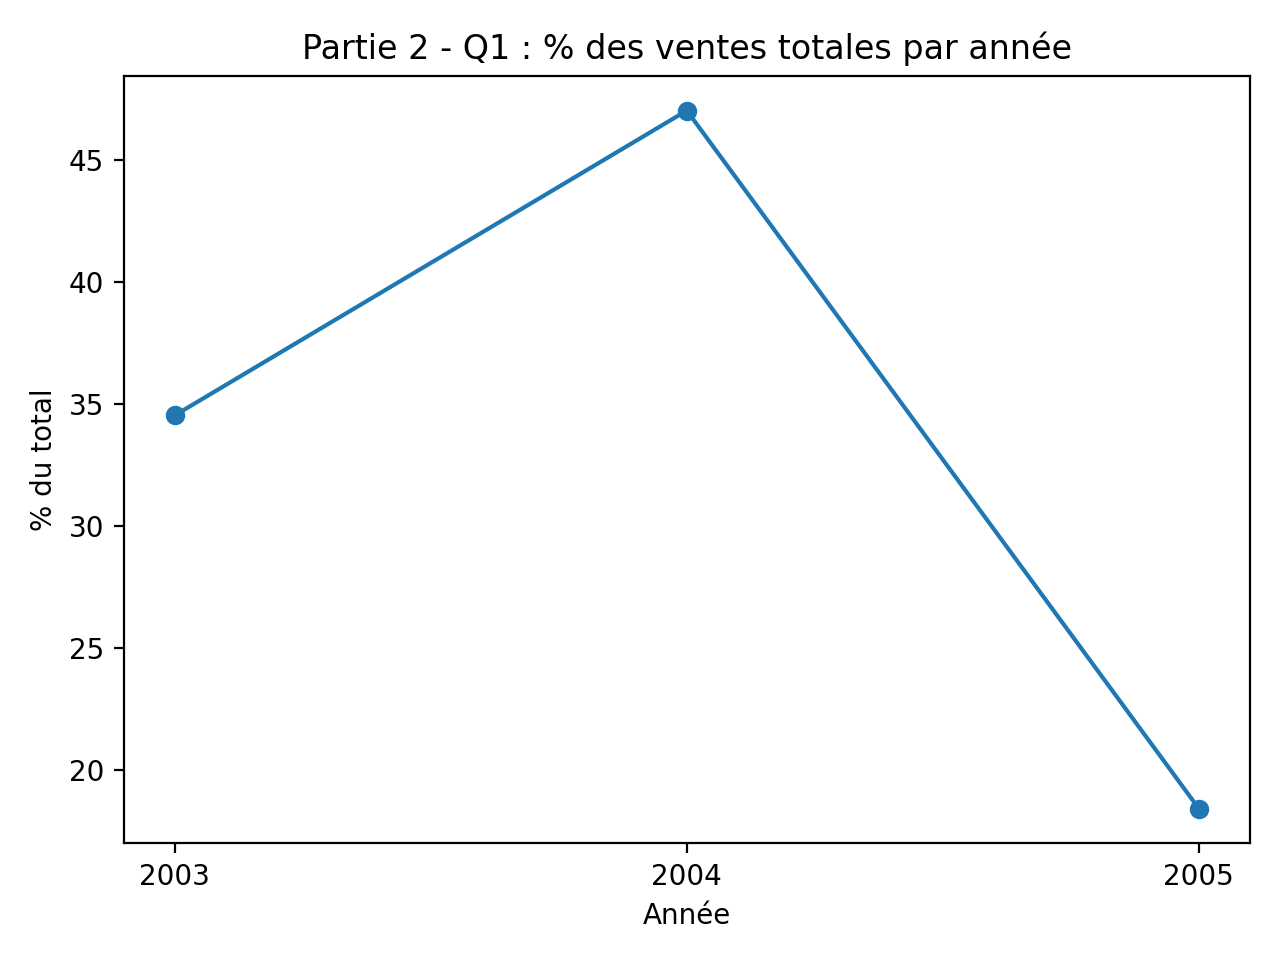
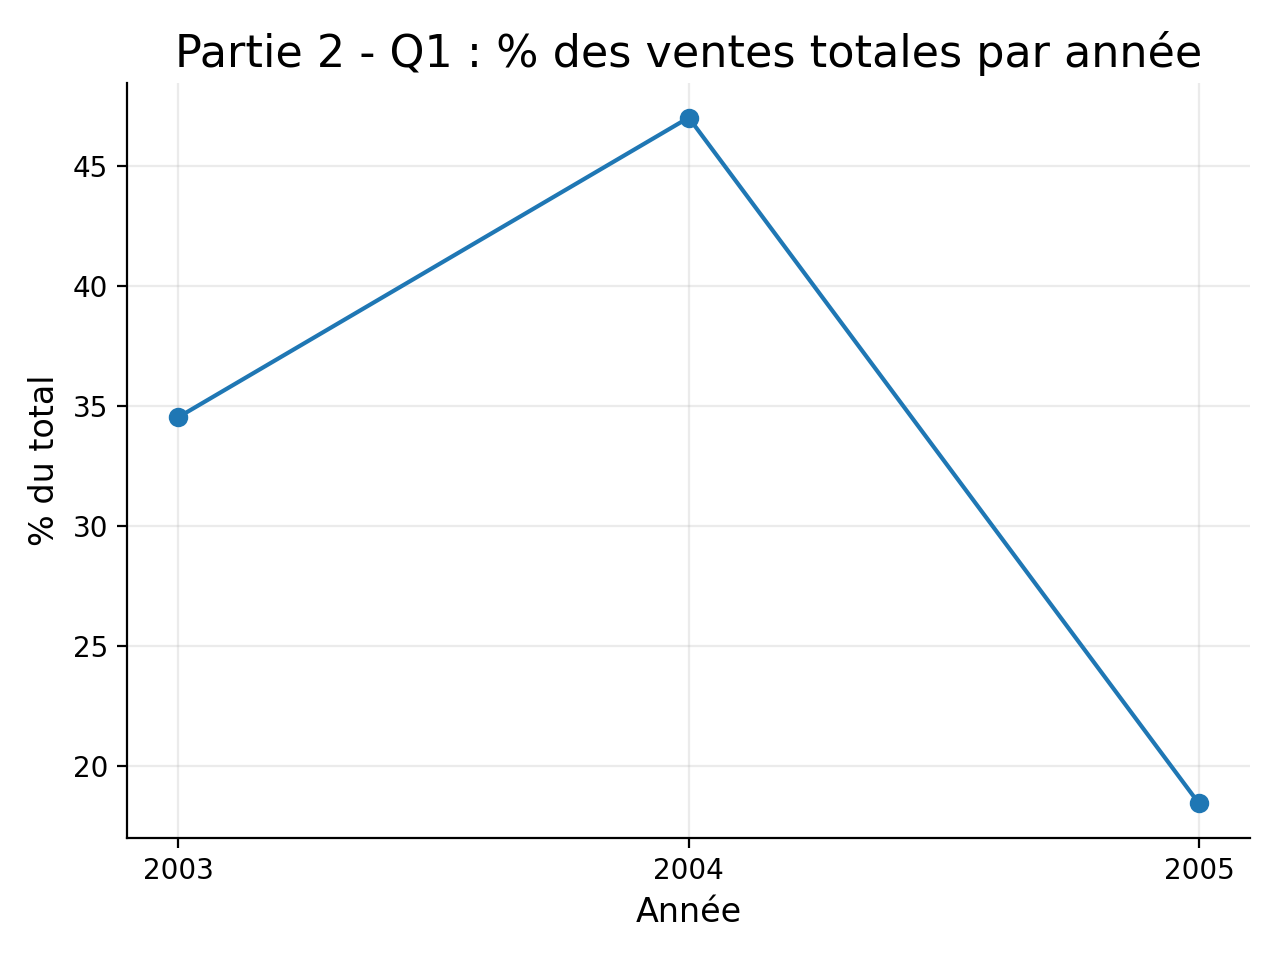
DB connection restructuré et tentative de personalisation d'un certain nombre de graph

diff --git a/src/analysis/part2/visualization_part2_q1_yearly_sales.py b/src/analysis/part2/visualization_part2_q1_yearly_sales.py
@@ -1,7 +1,10 @@
+from src.analysis.viz_style import set_mpl_style
+set_mpl_style()
+
 import os
 import pandas as pd
 import matplotlib.pyplot as plt
-from db import get_connection
+from src.analysis.db import get_connection
 
 OUT_DIR = os.path.join("visualizations", "part2")
 os.makedirs(OUT_DIR, exist_ok=True)
@@ -29,7 +32,6 @@ def main():
     df = pd.read_sql(SQL, cnx)
     cnx.close()
 
-    # Graph 1: bar ventes / année
     plt.figure()
     plt.bar(df["year"].astype(str), df["total_sales"])
     plt.title("Partie 2 - Q1 : Ventes totales par année")
@@ -40,7 +42,6 @@ def main():
     plt.savefig(os.path.join(OUT_DIR, "part2_q1_sales_par_annee.png"), dpi=200)
     plt.close()
 
-    # Graph 2: part (%) du total
     plt.figure()
     plt.plot(df["year"], df["percentage_of_total"], marker="o")
     plt.title("Partie 2 - Q1 : % des ventes totales par année")

diff --git a/src/analysis/viz_style.py b/src/analysis/viz_style.py
@@ -1,0 +1,27 @@
+from pathlib import Path
+import matplotlib.pyplot as plt
+
+def set_mpl_style():
+    plt.rcParams.update({
+        "figure.dpi": 120,
+        "savefig.dpi": 300,
+        "axes.titlesize": 16,
+        "axes.labelsize": 12,
+        "xtick.labelsize": 10,
+        "ytick.labelsize": 10,
+        "legend.fontsize": 10,
+        "axes.grid": True,
+        "grid.alpha": 0.25,
+        "axes.spines.top": False,
+        "axes.spines.right": False,
+    })
+
+def finalize_ax(ax, title=None, xlabel=None, ylabel=None):
+    if title: ax.set_title(title, pad=12)
+    if xlabel: ax.set_xlabel(xlabel)
+    if ylabel: ax.set_ylabel(ylabel)
+    plt.tight_layout()
+
+def save_fig(fig, out_path: Path):
+    out_path.parent.mkdir(parents=True, exist_ok=True)
+    fig.savefig(out_path, bbox_inches="tight")

diff --git a/src/analysis/db.py b/src/analysis/db.py
@@ -1,13 +1,16 @@
+# src/analysis/db.py
 import os
 from dotenv import load_dotenv
 import mysql.connector
 
-load_dotenv()
+# IMPORTANT : charge le .env au bon endroit
+load_dotenv("config/.env")
 
 def get_connection():
     return mysql.connector.connect(
         host=os.getenv("MYSQL_HOST", "localhost"),
         user=os.getenv("MYSQL_USER", "root"),
-        password=os.getenv("MYSQL_PASSWORD", ""),
+        password=os.getenv("MYSQL_PASSWORD"),          # pas de "" par défaut
         database=os.getenv("MYSQL_DATABASE", "classicmodels"),
+        port=int(os.getenv("MYSQL_PORT", "3306")),
     )

diff --git a/src/analysis/part2/visualization_part2_q2_quarterly_moving_avg.py b/src/analysis/part2/visualization_part2_q2_quarterly_moving_avg.py
@@ -1,7 +1,7 @@
 import os
 import pandas as pd
 import matplotlib.pyplot as plt
-from db import get_connection
+from src.analysis.db import get_connection
 
 OUT_DIR = os.path.join("visualizations", "part2")
 os.makedirs(OUT_DIR, exist_ok=True)

diff --git a/src/analysis/part2/visualization_part2_q3_hierarchy_levels.py b/src/analysis/part2/visualization_part2_q3_hierarchy_levels.py
@@ -1,7 +1,7 @@
 import os
 import pandas as pd
 import matplotlib.pyplot as plt
-from db import get_connection
+from src.analysis.db import get_connection
 
 OUT_DIR = os.path.join("visualizations", "part2")
 os.makedirs(OUT_DIR, exist_ok=True)
